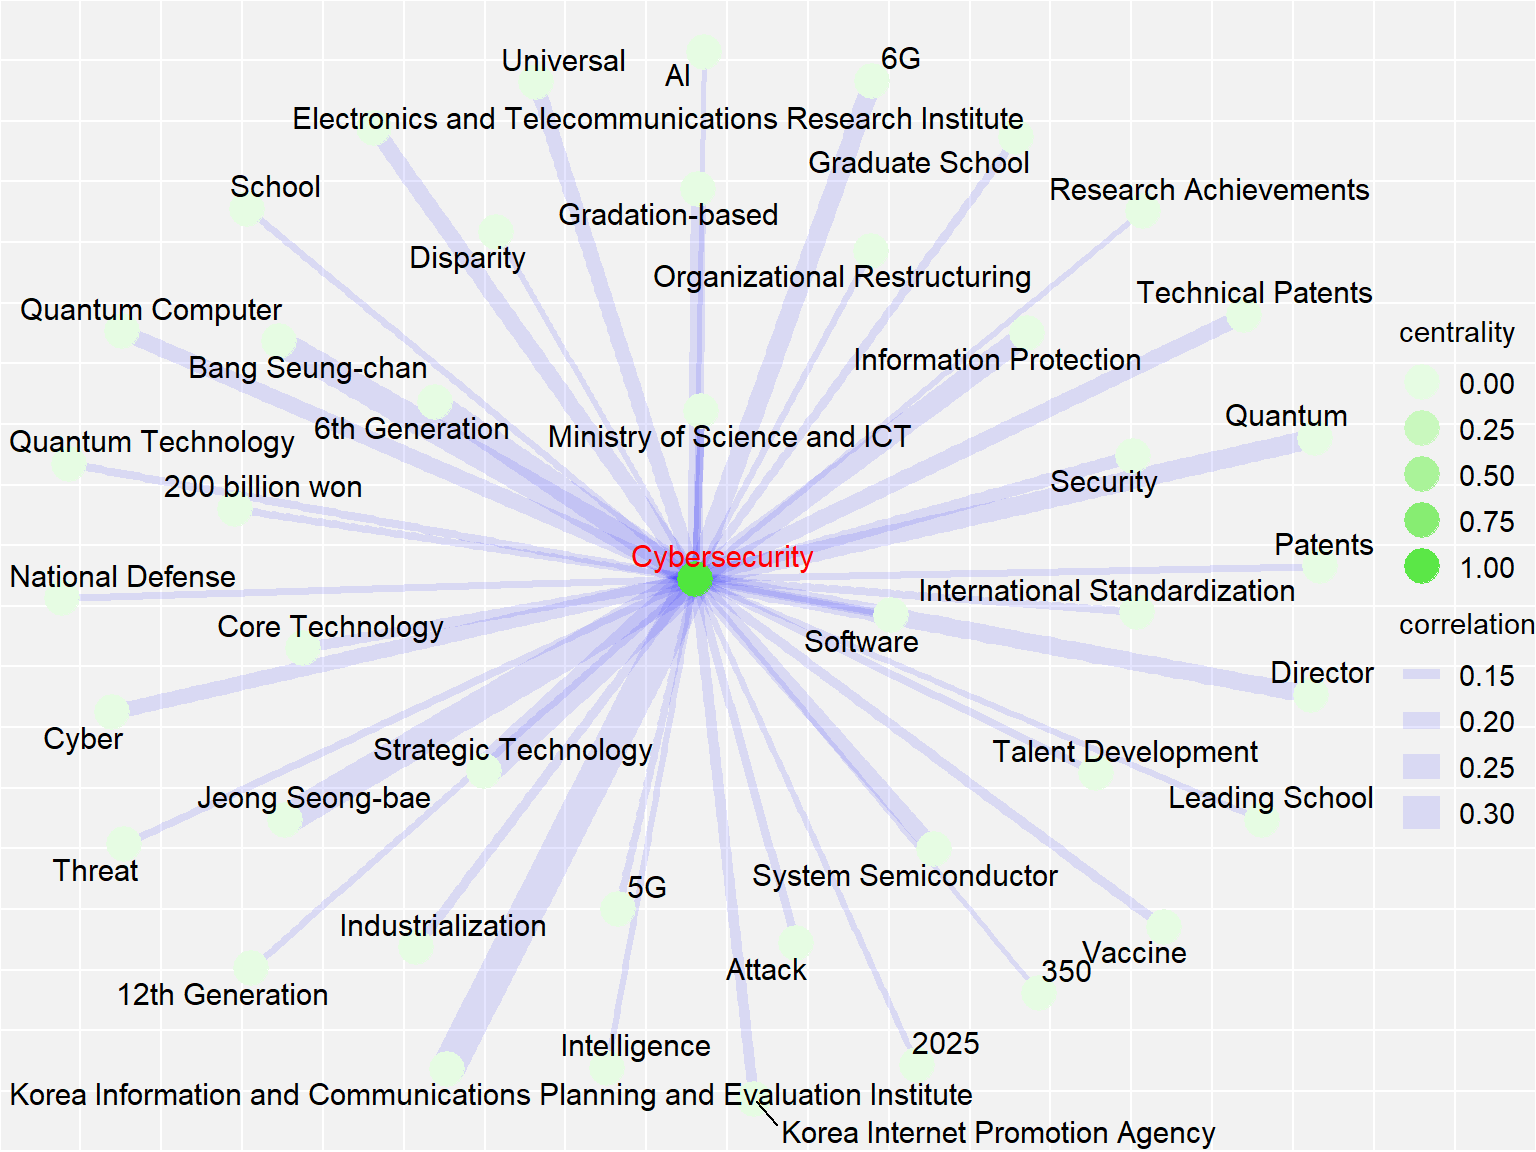
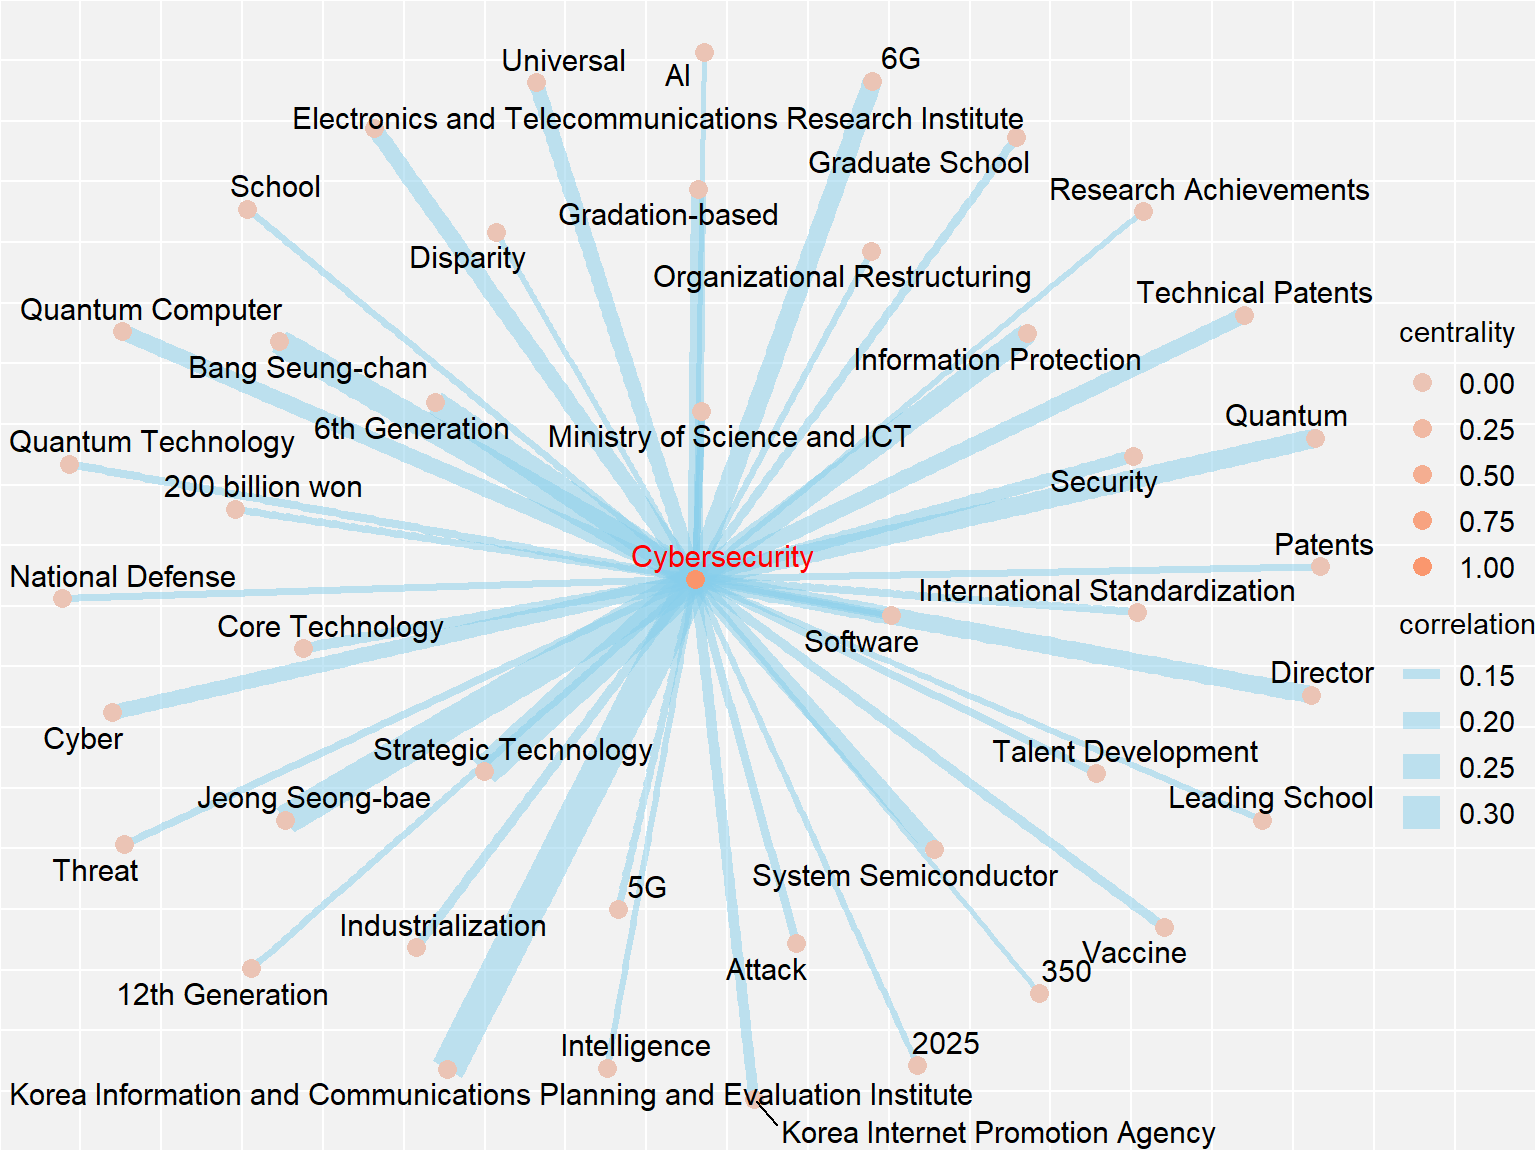
update

diff --git a/index.html b/index.html
@@ -416,26 +416,25 @@ Assistant Professor, Dept. of Education
 <div class="columns">
 <div class="column" style="width:70%;">
 <ul>
-<li>단일대상 실험설계 연구의 특성 <br>
+<li>Metaverse vs Cybersecurity Trends <br>
 </li>
-<li>왜 종단 자료인가? <br>
+<li>What is Metaverse? <br>
 </li>
-<li>다층 종단 자료 구조 및 코딩 <br>
+<li>History of Metaverse <br>
 </li>
-<li>대상자간 중다기초선 설계 그래프 <br>
+<li>Technologies Used in the Metaverse <br>
 </li>
-<li>3수준 및 2수준 다층 모형 <br>
+<li>Cybersecurity Issues in the Metaverse <br>
 </li>
-<li>논의 및 추후 연구에 대한 시사점</li>
+<li>News Article Analysis</li>
 </ul>
 </div>
 </div>
 </section><section class="slide level2">
 <img data-src="figures/DOE.png" class="r-stretch quarto-figure-center"><p>Source: <a href="https://oese.ed.gov/resources/safe-school-environments/keeping-students-safe-online/">Office of Elementary &amp; Secondary Education</a></p>
 </section><section class="slide level2"><h2><code>Metaverse vs Cybersecurity Trends</code></h2>
-
-<img data-src="figures/trend.png" class="r-stretch quarto-figure-center"><p class="caption">Source: <a href="https://trends.google.com/trends" class="uri">https://trends.google.com/trends</a></p></section><section class="slide level2"><h2><code>Breakdown by Region</code></h2>
-<script type="text/javascript" src="https://ssl.gstatic.com/trends_nrtr/3349_RC01/embed_loader.js"></script><script type="text/javascript"> trends.embed.renderExploreWidget("GEO_MAP", {"comparisonItem":[{"keyword":"metaverse","geo":"","time":"2004-01-01 2023-05-25"},{"keyword":"cybersecurity","geo":"","time":"2004-01-01 2023-05-25"}],"category":0,"property":""}, {"exploreQuery":"date=all&q=metaverse,cybersecurity&hl=en-US","guestPath":"https://trends.google.com:443/trends/embed/"}); </script></section><section class="slide level2"><h2><code>What is Metaverse?</code></h2>
+<p><img data-src="figures/trend.png"> Source: <a href="https://trends.google.com/trends/explore?date=all&amp;q=metaverse,cybersecurity&amp;hl=en">Google Trend</a></p>
+</section><section class="slide level2"><h2><code>What is Metaverse?</code></h2>
 <div class="columns">
 <div class="column" style="width:60%;">
 <ul>
@@ -600,10 +599,10 @@ Assistant Professor, Dept. of Education
 <span id="cb1-17"><a href="#cb1-17"></a></span>
 <span id="cb1-18"><a href="#cb1-18"></a>network_meta <span class="ot">&lt;-</span> layout_meta <span class="sc">%&gt;%</span> </span>
 <span id="cb1-19"><a href="#cb1-19"></a>  <span class="fu">ggraph</span>() <span class="sc">+</span> </span>
-<span id="cb1-20"><a href="#cb1-20"></a>  <span class="fu">geom_edge_link</span>(<span class="fu">aes</span>(<span class="at">edge_alpha =</span> correlation, <span class="at">edge_width =</span> correlation), <span class="at">alpha =</span> <span class="fl">0.1</span>, <span class="at">edge_colour =</span> <span class="st">"blue"</span>) <span class="sc">+</span> </span>
-<span id="cb1-21"><a href="#cb1-21"></a>  <span class="fu">geom_node_point</span>(<span class="fu">aes</span>(<span class="at">colour =</span> centrality), <span class="at">size =</span> <span class="dv">6</span>) <span class="sc">+</span></span>
+<span id="cb1-20"><a href="#cb1-20"></a>  <span class="fu">geom_edge_link</span>(<span class="fu">aes</span>(<span class="at">edge_alpha =</span> correlation, <span class="at">edge_width =</span> correlation), <span class="at">alpha =</span> <span class="fl">0.5</span>, <span class="at">edge_colour =</span> <span class="st">"skyblue"</span>) <span class="sc">+</span> </span>
+<span id="cb1-21"><a href="#cb1-21"></a>  <span class="fu">geom_node_point</span>(<span class="fu">aes</span>(<span class="at">colour =</span> centrality), <span class="at">size =</span> <span class="dv">3</span>) <span class="sc">+</span></span>
 <span id="cb1-22"><a href="#cb1-22"></a>  <span class="fu">geom_node_text</span>(<span class="fu">aes</span>(<span class="at">label =</span> name), <span class="at">size =</span> <span class="dv">4</span>, <span class="at">repel =</span> <span class="cn">TRUE</span>) <span class="sc">+</span></span>
-<span id="cb1-23"><a href="#cb1-23"></a>  <span class="fu">scale_color_continuous</span>(<span class="at">guide =</span> <span class="st">'legend'</span>, <span class="at">high =</span> <span class="st">"#50e63e"</span>, <span class="at">low =</span> <span class="st">"#e6fce3"</span>) <span class="sc">+</span></span>
+<span id="cb1-23"><a href="#cb1-23"></a>  <span class="fu">scale_color_continuous</span>(<span class="at">guide =</span> <span class="st">'legend'</span>, <span class="at">high =</span> <span class="st">"#fa956b"</span>, <span class="at">low =</span> <span class="st">"#ebc4b5"</span>) <span class="sc">+</span></span>
 <span id="cb1-24"><a href="#cb1-24"></a>  <span class="fu">theme_void</span>(<span class="at">base_size =</span> <span class="dv">6</span>) <span class="sc">+</span></span>
 <span id="cb1-25"><a href="#cb1-25"></a>  <span class="fu">theme</span>(<span class="at">legend.title=</span><span class="fu">element_text</span>(<span class="at">size =</span> <span class="dv">11</span>),</span>
 <span id="cb1-26"><a href="#cb1-26"></a>        <span class="at">legend.text=</span><span class="fu">element_text</span>(<span class="at">size =</span> <span class="dv">11</span>),</span>
